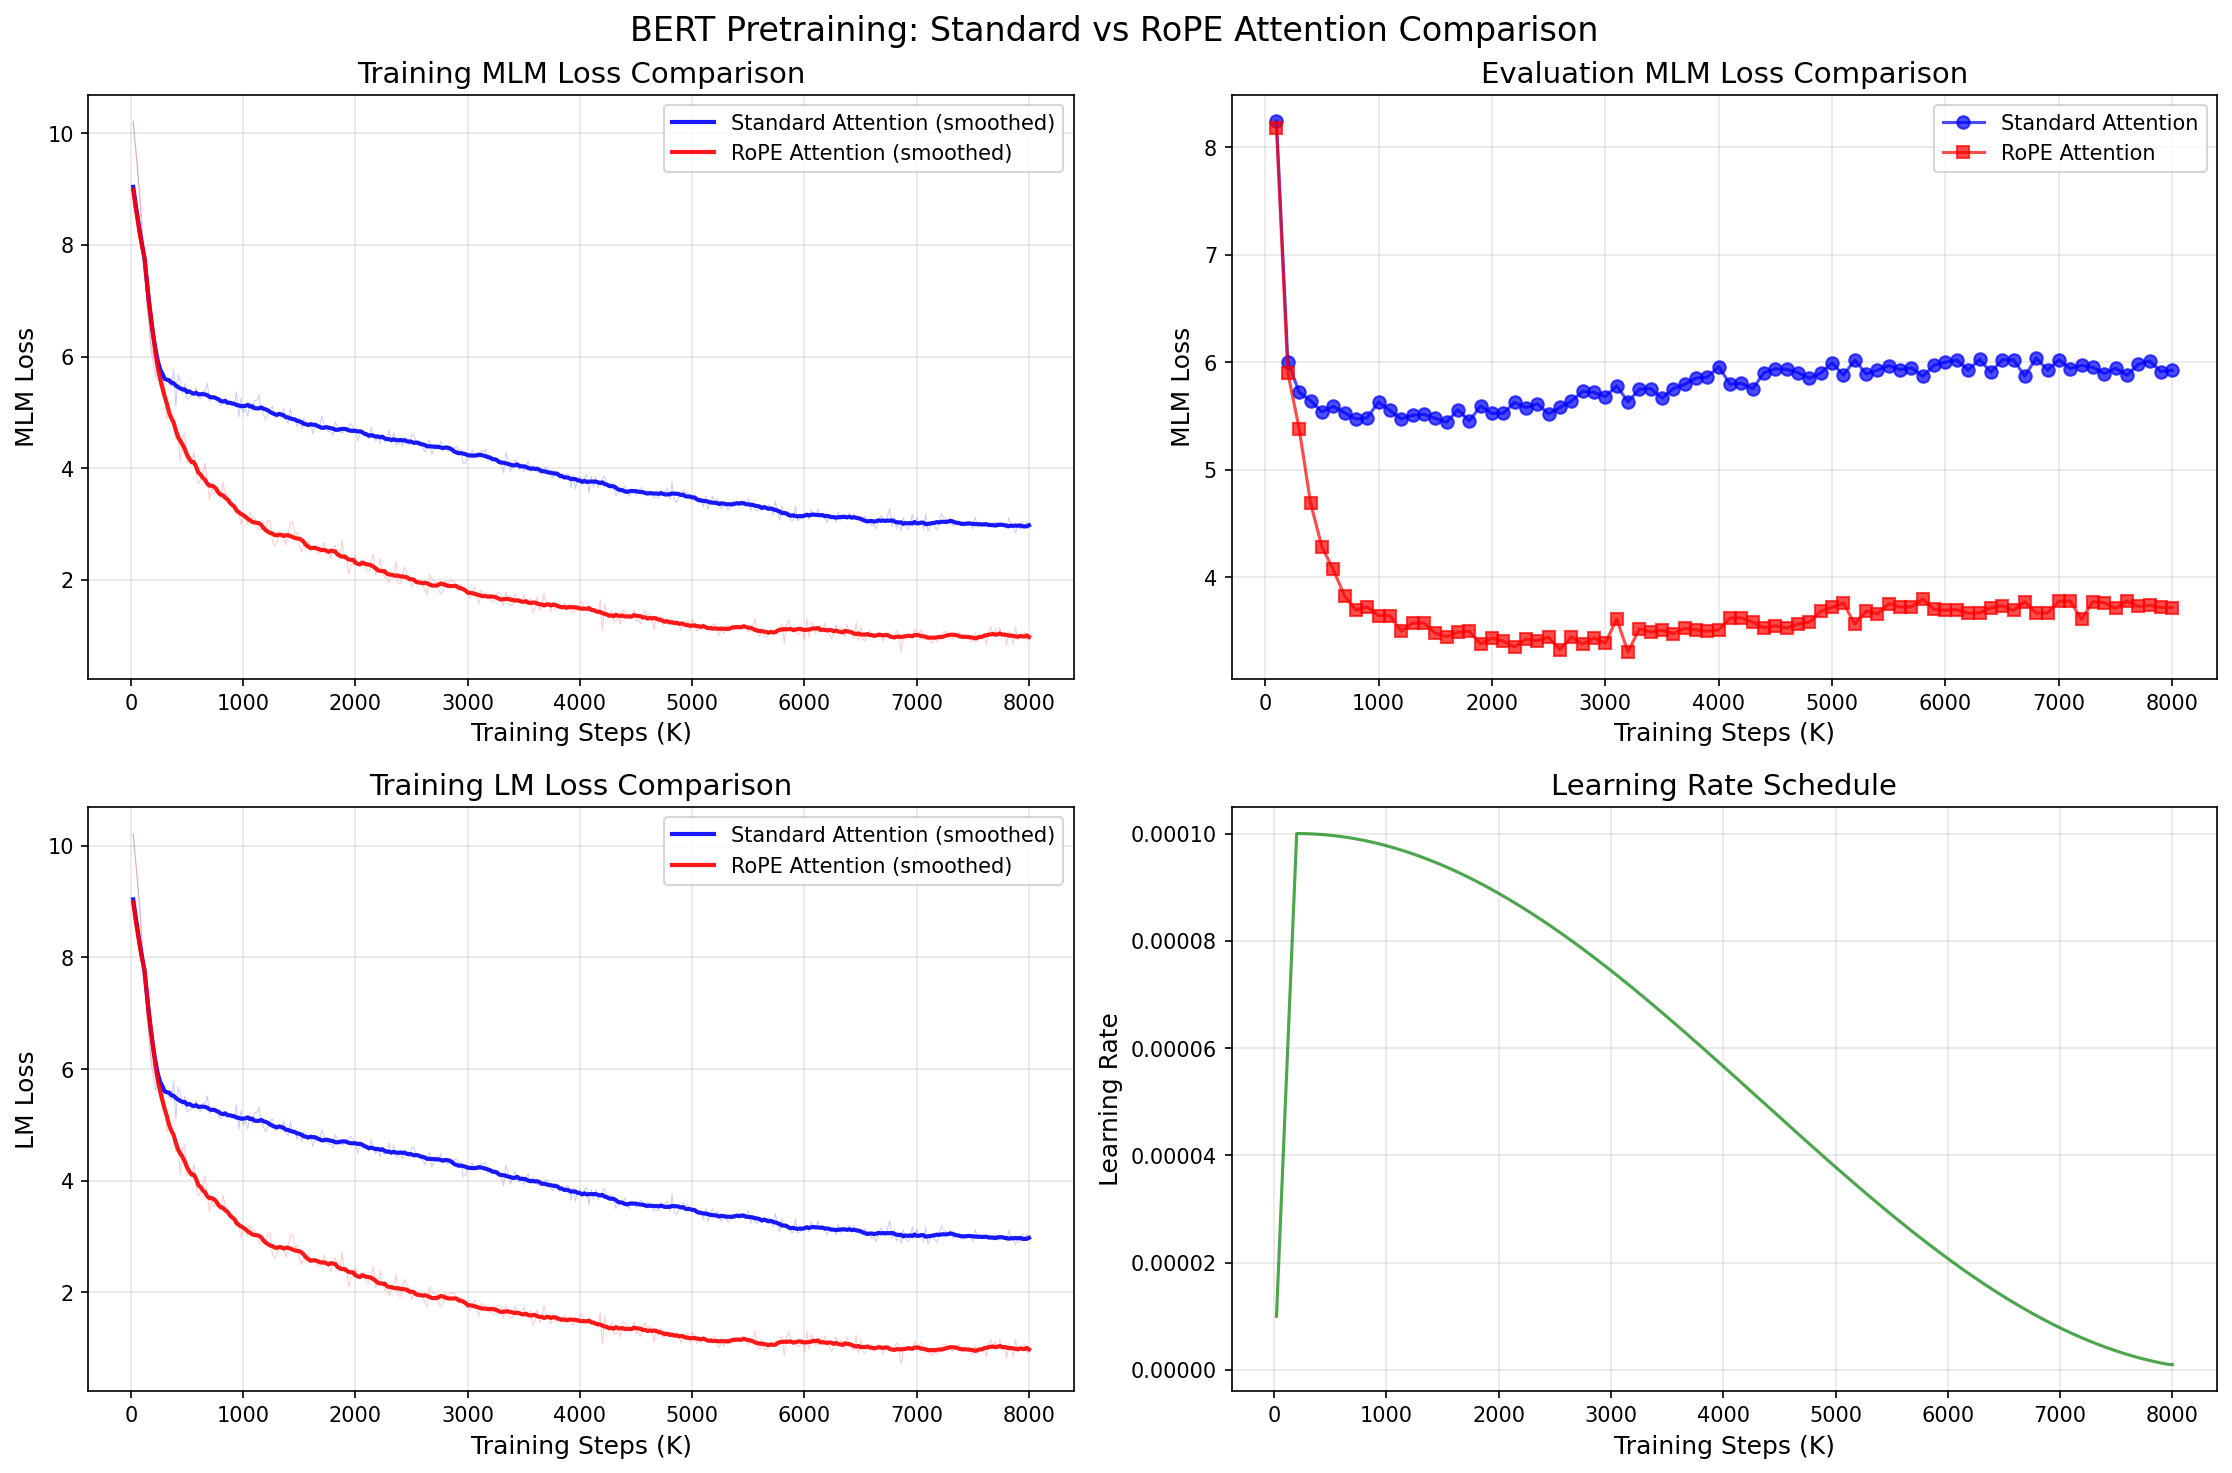
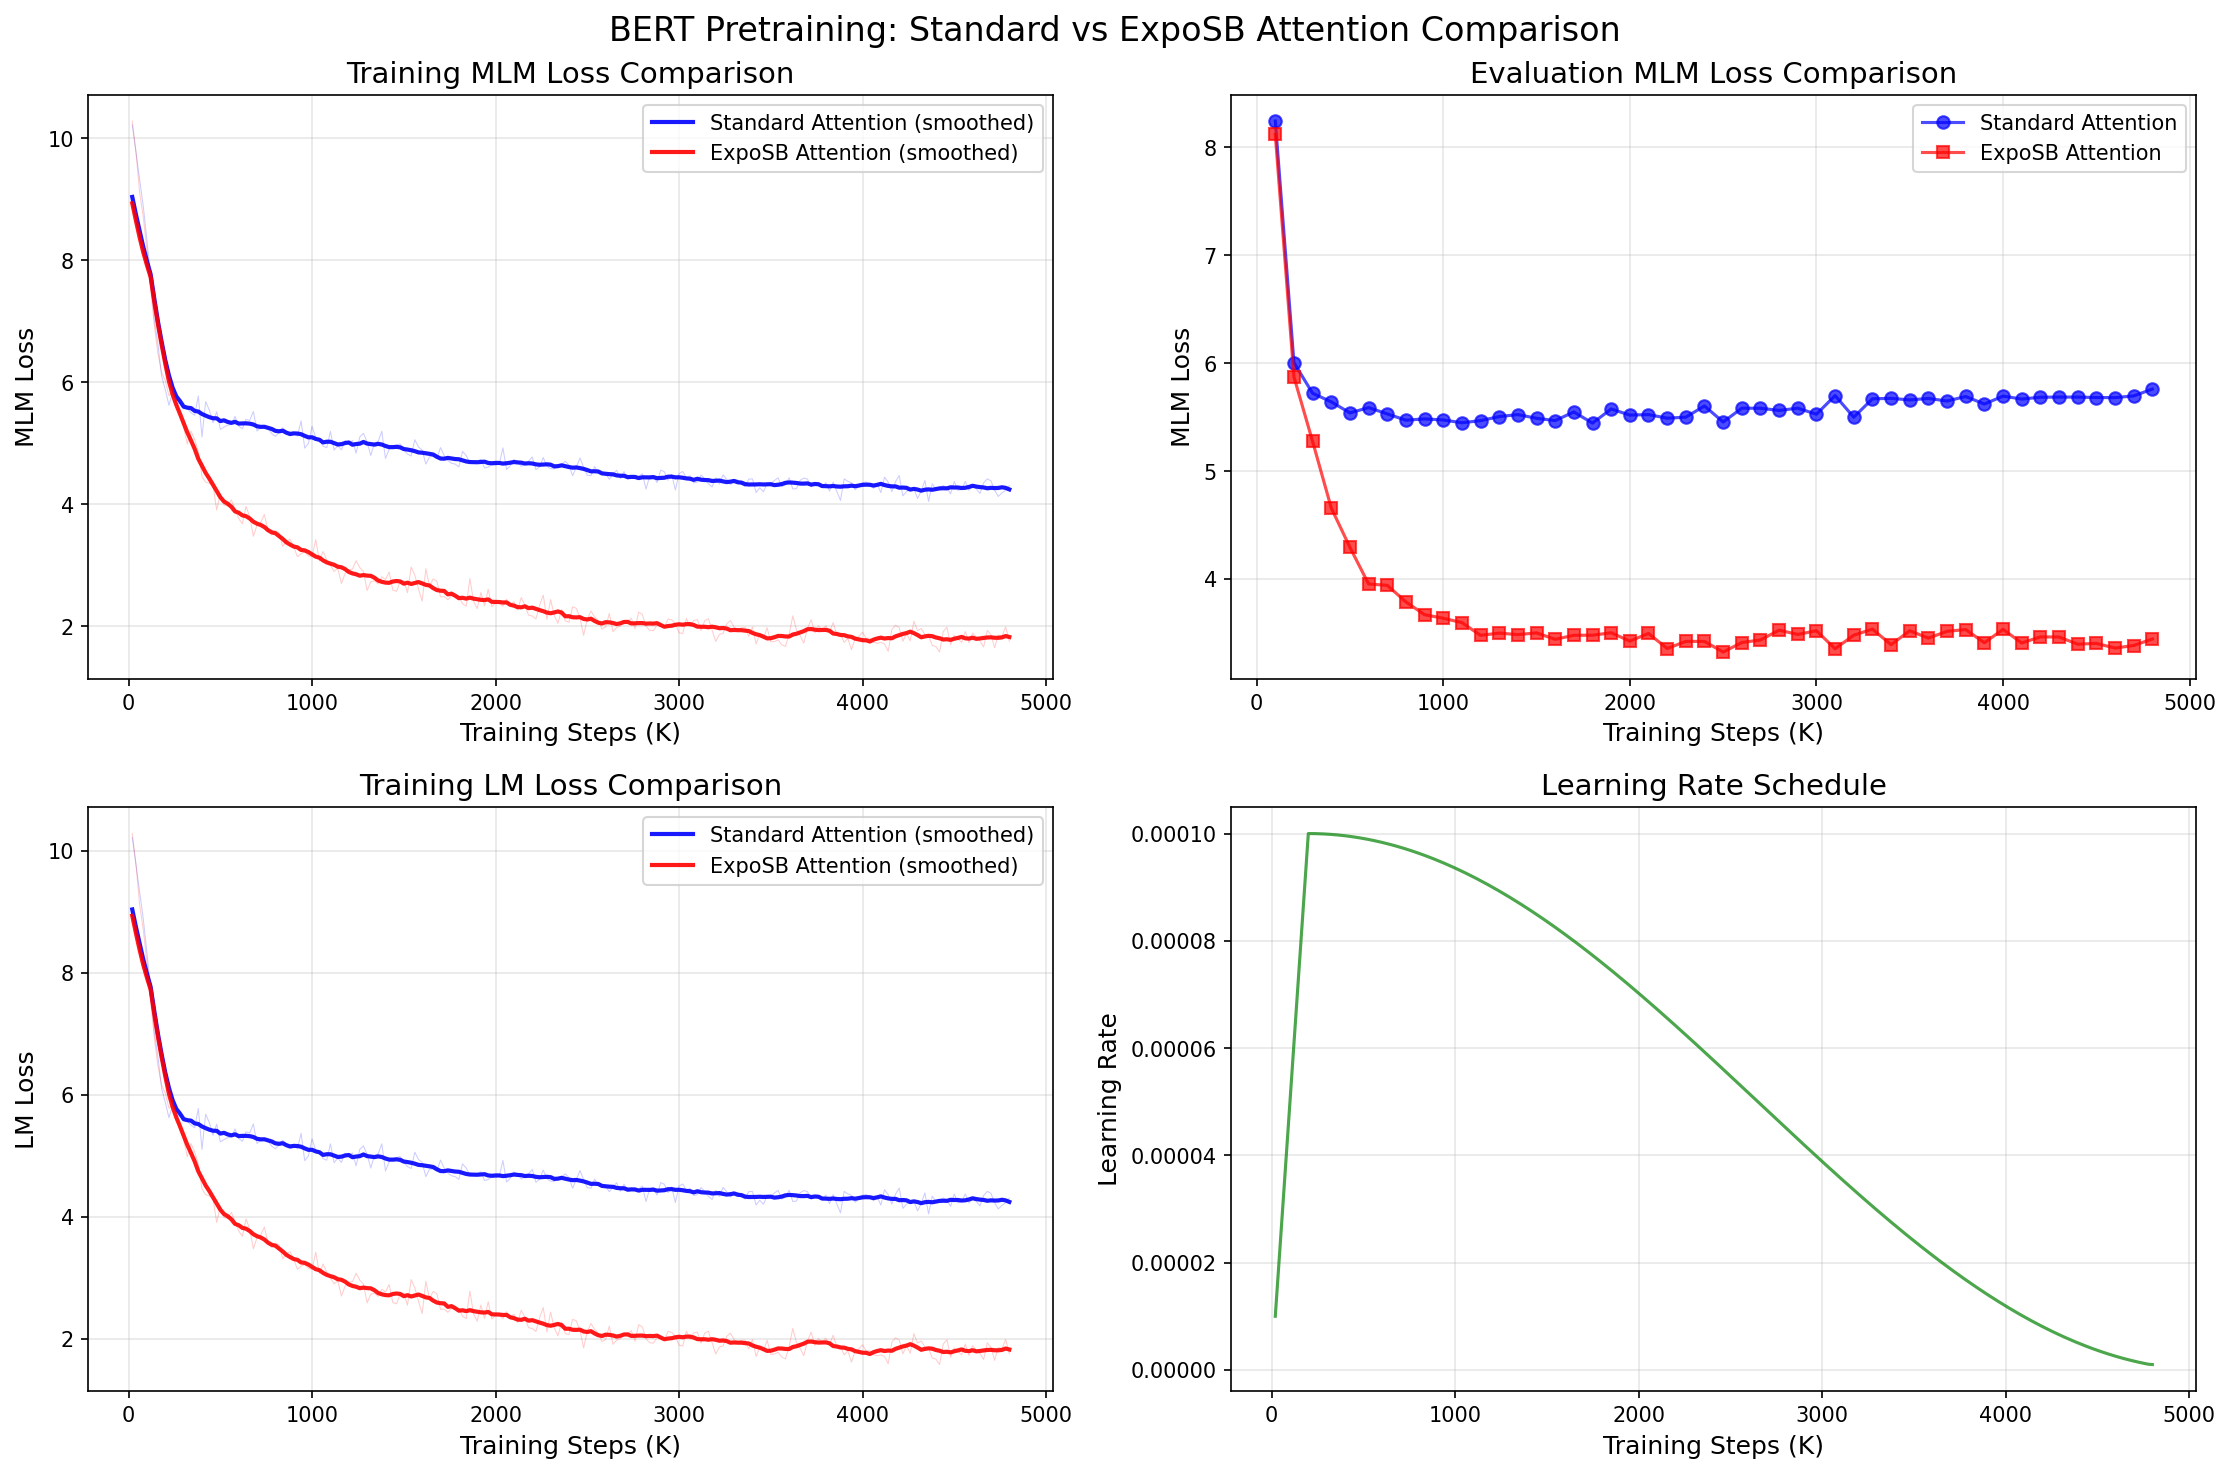
fixed implementation of the expoSB implementatiom

diff --git a/expoSB_implementation/triton_exposb_attention.py b/expoSB_implementation/triton_exposb_attention.py
@@ -88,17 +88,17 @@ def _exposb_attention_fwd_kernel(
     freq_idx = tl.arange(0, dim_half)
     dim_factor = freq_idx.to(tl.float32) * 2.0 / BLOCK_DMODEL
     
-    # ExpoSB modification: add exponential decay based on position
+    # Enhanced ExpoSB modification: stronger exponential decay for longer sequences
     # This creates a stick-breaking structure that decays with distance
     log_theta = tl.log(base_theta)
     
     # Standard frequency computation for dim_half dimensions
     inv_freq = tl.exp(-log_theta * dim_factor)
     
-    # Add exponential decay factor based on position
+    # Add stronger exponential decay factor based on position
     # The decay creates stick-breaking structure at different scales
-    decay_factor = 0.98  # Exponential decay rate
-    pos_decay = tl.exp(-pos_m[:, None].to(tl.float32) * 0.001)  # Position-based decay
+    decay_factor = 0.95  # Stronger exponential decay rate
+    pos_decay = tl.exp(-pos_m[:, None].to(tl.float32) * 0.005)  # Increased position-based decay
     
     # Combine frequency with position-based modulation
     # Create angles for rotation - need to handle dimension properly
@@ -108,9 +108,10 @@ def _exposb_attention_fwd_kernel(
     
     angle_m = pos_m[:, None].to(tl.float32) * inv_freq_expanded[None, :]
     
-    # Apply stick breaking transformation with exponential modulation
-    cos_m = tl.cos(angle_m) * (1.0 + 0.2 * pos_decay)  # Modulated cosine
-    sin_m = tl.sin(angle_m) * (1.0 + 0.2 * pos_decay)  # Modulated sine
+    # Apply enhanced stick breaking transformation with exponential modulation
+    position_scale = 1.0 + 0.5 * pos_decay * tl.cos(pos_m[:, None].to(tl.float32) * 0.01)
+    cos_m = tl.cos(angle_m) * position_scale  # Enhanced modulated cosine
+    sin_m = tl.sin(angle_m) * position_scale  # Enhanced modulated sine
     
     # Rotate Q: split into even/odd indices
     q_even = tl.where(offs_d % 2 == 0, q, 0)
@@ -458,12 +459,13 @@ def apply_exposb(x, position_ids):
     # Compute angles with exponential decay
     angles = position_ids * inv_freq
     
-    # Add exponential decay based on position
-    pos_decay = torch.exp(-position_ids.float() * 0.001)
+    # Add exponential decay based on position - stronger for longer sequences
+    pos_decay = torch.exp(-position_ids.float() * 0.005)  # Increased decay rate
     
-    # Modulated trigonometric functions
-    cos_vals = torch.cos(angles) * (1.0 + 0.2 * pos_decay)
-    sin_vals = torch.sin(angles) * (1.0 + 0.2 * pos_decay)
+    # Enhanced modulated trigonometric functions with position-dependent scaling
+    position_scale = 1.0 + 0.5 * pos_decay * torch.cos(position_ids.float() * 0.01)
+    cos_vals = torch.cos(angles) * position_scale
+    sin_vals = torch.sin(angles) * position_scale
     
     # Split x into even and odd indices
     x_even = x[..., ::2]
@@ -477,11 +479,19 @@ def apply_exposb(x, position_ids):
     x_rotated = torch.stack([x_rotated_even, x_rotated_odd], dim=-1)
     x_rotated = x_rotated.flatten(-2)
     
-    # Apply band-pass filtering
-    band_center = head_dim // 4
-    band_width = head_dim // 8
-    freq_response = torch.exp(-((torch.arange(head_dim, device=x.device) - band_center) ** 2) / (2.0 * band_width ** 2))
-    x_rotated = x_rotated * (0.8 + 0.4 * freq_response)
+    # Apply enhanced band-pass filtering for long-range modeling
+    band_center = head_dim // 3  # Shift center for better frequency response
+    band_width = head_dim // 6   # Narrower band for more selective filtering
+    freq_indices = torch.arange(head_dim, device=x.device)
+    freq_response = torch.exp(-((freq_indices - band_center) ** 2) / (2.0 * band_width ** 2))
+    
+    # Add distance-dependent attenuation
+    seq_len = x.shape[2]
+    distance_factor = torch.exp(-torch.arange(seq_len, device=x.device).float() * 0.001)
+    distance_factor = distance_factor.unsqueeze(0).unsqueeze(0).unsqueeze(-1)
+    
+    # Apply combined filtering
+    x_rotated = x_rotated * (0.7 + 0.6 * freq_response) * (0.9 + 0.2 * distance_factor)
     
     return x_rotated
 

diff --git a/expoSB_implementation/data_preprocessing.py b/expoSB_implementation/data_preprocessing.py
@@ -47,7 +47,7 @@ def clean_gutenberg_text(text: str) -> str:
     return content
 
 
-def split_into_training_chunks(text: str, target_length: int = 200, overlap: int = 30) -> List[str]:
+def split_into_training_chunks(text: str, target_length: int = 800, overlap: int = 100) -> List[str]:
     """
     Split text into overlapping chunks suitable for BERT training
     
@@ -132,8 +132,8 @@ def process_huckleberry_finn_data(book_file: str = "training_data/Adventures-of-
         cleaned_text = clean_gutenberg_text(raw_text)
         print(f"✓ Cleaned text: {len(cleaned_text):,} characters, {len(cleaned_text.split()):,} words")
         
-        # Split into training chunks
-        chunks = split_into_training_chunks(cleaned_text, target_length=200, overlap=30)
+        # Split into training chunks for longer sequences
+        chunks = split_into_training_chunks(cleaned_text, target_length=800, overlap=100)
         print(f"✓ Generated {len(chunks)} training chunks")
         print(f"✓ Average chunk length: {sum(len(chunk.split()) for chunk in chunks) / len(chunks):.1f} words")
         

diff --git a/expoSB_implementation/test_exposb.py b/expoSB_implementation/test_exposb.py
@@ -16,11 +16,11 @@ def test_basic_functionality():
     print("Testing ExpoSB basic functionality...")
     
     try:
-        # Test parameters
+        # Test parameters - using config values
         batch_size = 2
         seq_len = 64  # Smaller for testing
-        hidden_size = 768
-        num_heads = 12
+        hidden_size = 512  # Match config
+        num_heads = 8      # Match config
         
         # Create ExpoSB model
         exposb_model = ExpoSBBERTAttention(hidden_size, num_heads)
@@ -105,8 +105,8 @@ def test_dimension_consistency():
     try:
         batch_size = 1
         seq_len = 32
-        hidden_size = 768
-        num_heads = 12
+        hidden_size = 512  # Match config
+        num_heads = 8      # Match config
         head_dim = hidden_size // num_heads
         
         model = ExpoSBBERTAttention(hidden_size, num_heads)

diff --git a/expoSB_implementation/bert_comparison_train.py b/expoSB_implementation/bert_comparison_train.py
@@ -34,7 +34,7 @@ class TrainingConfig:
     batch_size: int = 32
     learning_rate: float = 5e-5
     num_epochs: int = 50
-    max_seq_length: int = 512
+    max_seq_length: int = 1024
     mlm_probability: float = 0.15
     warmup_steps: int = 50
     logging_steps: int = 10
